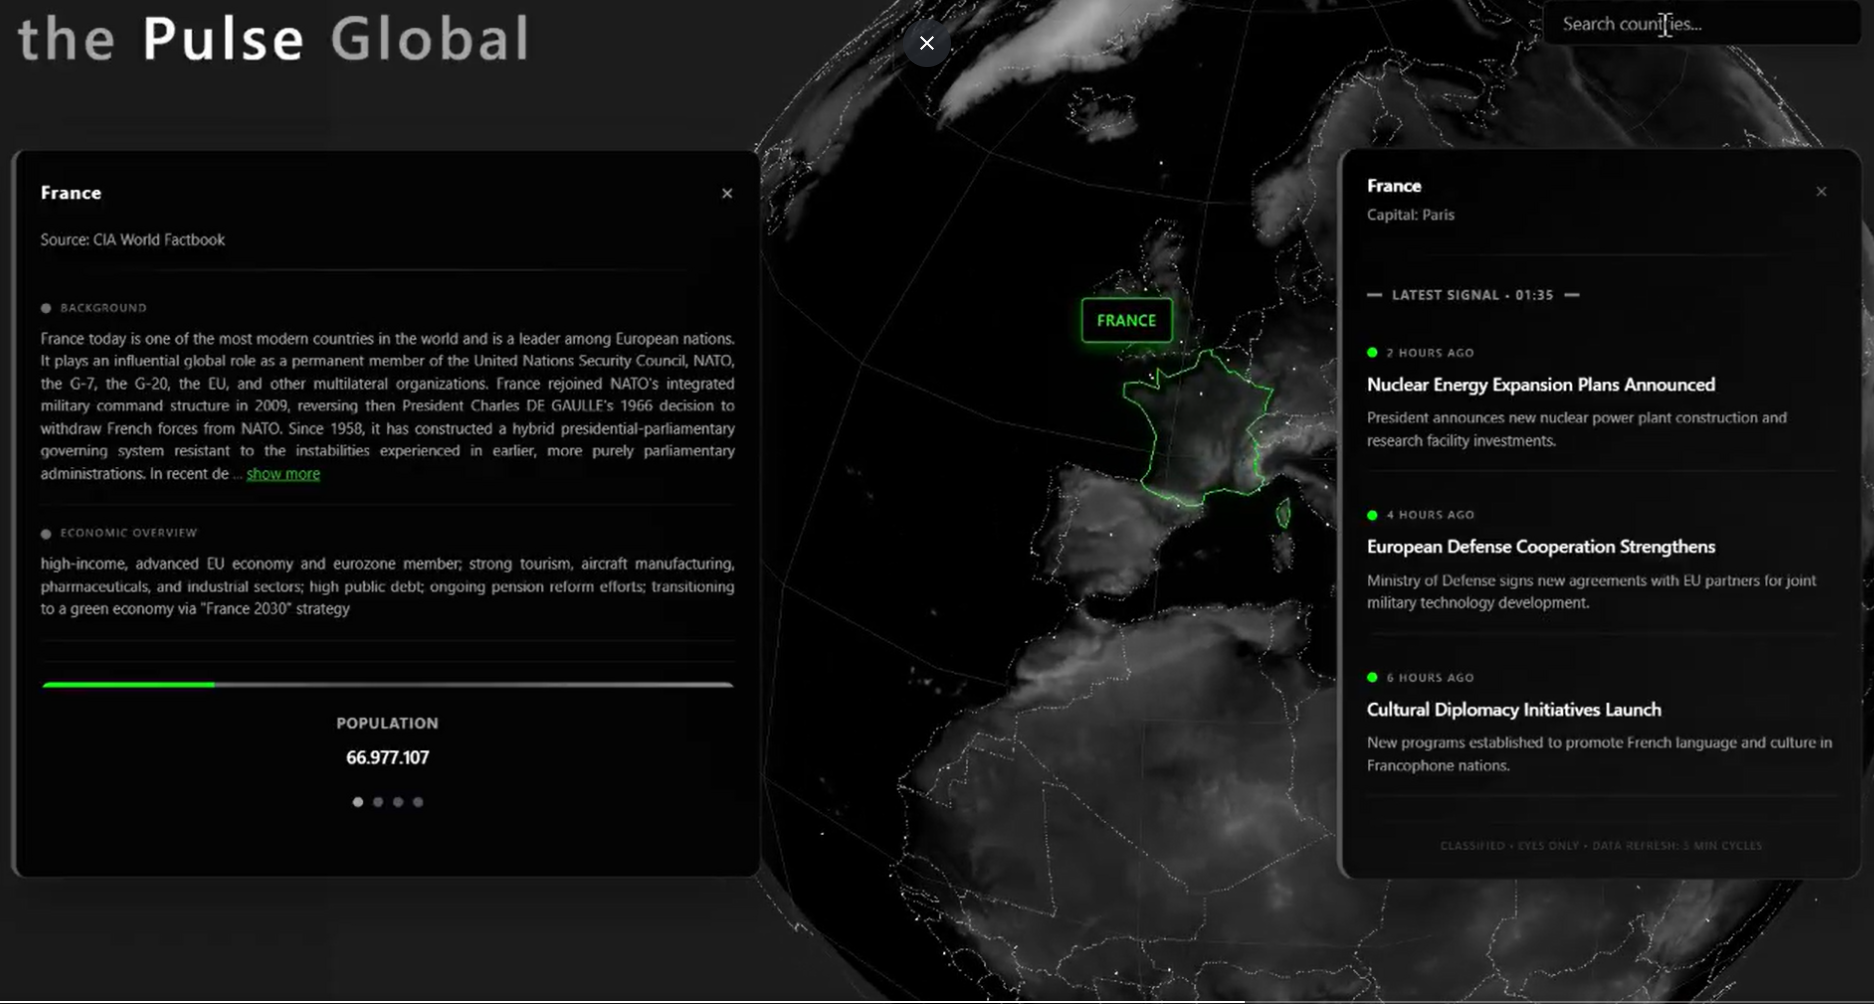
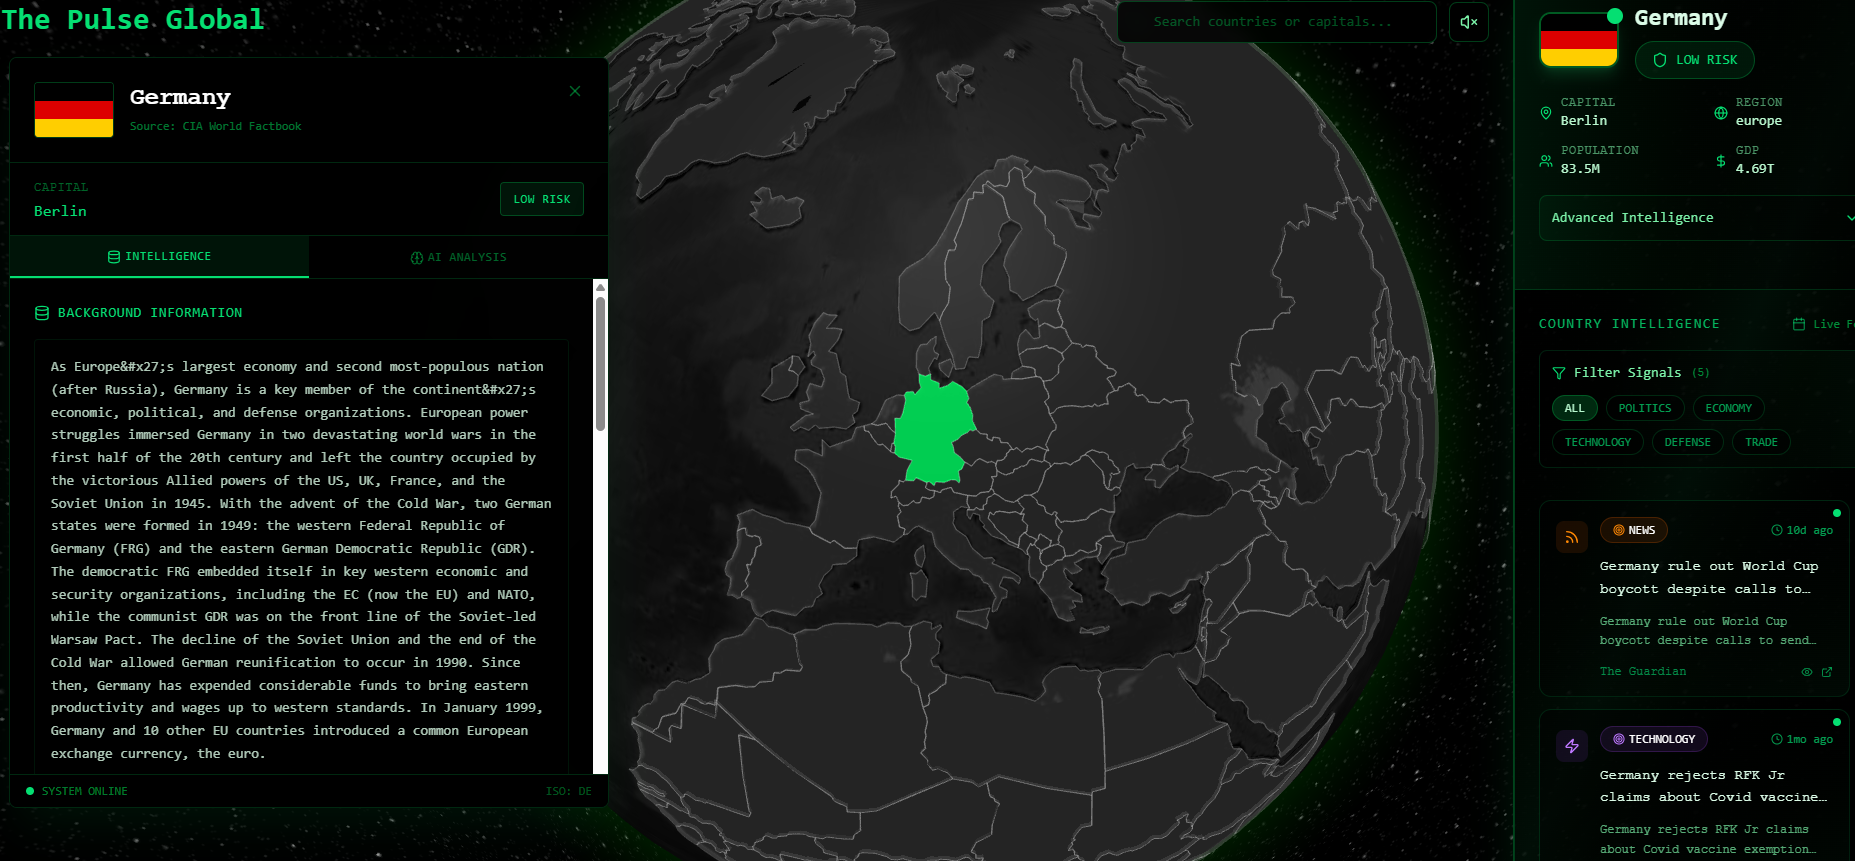
new project

diff --git a/src/components/Contact.jsx b/src/components/Contact.jsx
@@ -1,5 +1,5 @@
-import React from 'react';
-import { Box, Container, Typography, Grid, TextField, Button, Paper, IconButton, Stack, Chip } from '@mui/material';
+import React, { useRef, useState } from 'react';
+import { Box, Container, Typography, Grid, TextField, Button, Paper, IconButton, Stack, Snackbar, Alert, CircularProgress } from '@mui/material';
 import EmailIcon from '@mui/icons-material/Email';
 import LinkedInIcon from '@mui/icons-material/LinkedIn';
 import GitHubIcon from '@mui/icons-material/GitHub';
@@ -7,9 +7,37 @@ import WhatsAppIcon from '@mui/icons-material/WhatsApp';
 import LocationOnIcon from '@mui/icons-material/LocationOn';
 import SendIcon from '@mui/icons-material/Send';
 import SmartToyIcon from '@mui/icons-material/SmartToy';
+import CheckCircleIcon from '@mui/icons-material/CheckCircle';
+import emailjs from '@emailjs/browser';
 import { motion } from 'framer-motion';
 
+// =====================================================
+// EmailJS Konfiguration:
+// 1. https://www.emailjs.com/ hesap oluşturun (ücretsiz)
+// 2. Email Service ekleyin (Gmail, Outlook vb.)
+// 3. Email Template oluşturun (Aşağıdaki değişkenler: from_name, from_email, message)
+// 4. Aşağıdaki değerleri kendi bilgilerinizle değiştirin:
+// =====================================================
+const EMAILJS_SERVICE_ID = 'service_xxxxxxx';   // EmailJS Service ID
+const EMAILJS_TEMPLATE_ID = 'template_xxxxxxx'; // EmailJS Template ID
+const EMAILJS_PUBLIC_KEY = 'xxxxxxxxxxxxxxx';    // EmailJS Public Key
+
+const inputStyles = {
+    '& .MuiOutlinedInput-root': {
+        color: 'white',
+        '& fieldset': { borderColor: 'rgba(255,255,255,0.2)' },
+        '&:hover fieldset': { borderColor: '#00d9ff' },
+        '&.Mui-focused fieldset': { borderColor: '#00d9ff' },
+    },
+    '& .MuiInputLabel-root': { color: 'rgba(255,255,255,0.5)' },
+    '& .MuiInputLabel-root.Mui-focused': { color: '#00d9ff' },
+};
+
 const Contact = () => {
+    const formRef = useRef(null);
+    const [loading, setLoading] = useState(false);
+    const [snackbar, setSnackbar] = useState({ open: false, message: '', severity: 'success' });
+
     const contactInfo = [
         { icon: <EmailIcon />, label: "Email", value: "gokhan.cakmak@web.de", link: "mailto:gokhan.cakmak@web.de" },
         { icon: <LocationOnIcon />, label: "Location", value: "Bonn", link: null },
@@ -20,6 +48,28 @@ const Contact = () => {
         { icon: <GitHubIcon />, url: "https://github.com/cakmakg", color: "#333" },
         { icon: <WhatsAppIcon />, url: "https://wa.me/491639734475", color: "#25d366" },
     ];
+
+    const handleSubmit = (e) => {
+        e.preventDefault();
+        setLoading(true);
+
+        emailjs.sendForm(
+            EMAILJS_SERVICE_ID,
+            EMAILJS_TEMPLATE_ID,
+            formRef.current,
+            EMAILJS_PUBLIC_KEY
+        )
+            .then(() => {
+                setSnackbar({ open: true, message: 'Nachricht erfolgreich gesendet! ✅', severity: 'success' });
+                formRef.current.reset();
+            })
+            .catch(() => {
+                setSnackbar({ open: true, message: 'Fehler beim Senden. Bitte versuchen Sie es erneut.', severity: 'error' });
+            })
+            .finally(() => {
+                setLoading(false);
+            });
+    };
 
     return (
         <Box id="contact" sx={{ py: 10, bgcolor: '#0f0f1a', position: 'relative', overflow: 'hidden' }}>
@@ -119,6 +169,7 @@ const Contact = () => {
                                             key={i}
                                             href={social.url}
                                             target="_blank"
+                                            aria-label={`Social link ${i}`}
                                             sx={{
                                                 color: 'rgba(255,255,255,0.6)',
                                                 border: '1px solid rgba(255,255,255,0.1)',
@@ -137,66 +188,53 @@ const Contact = () => {
 
                             {/* Contact Form */}
                             <Grid item xs={12} md={7}>
-                                <Box component="form" sx={{ display: 'flex', flexDirection: 'column', gap: 2 }}>
+                                <Box
+                                    component="form"
+                                    ref={formRef}
+                                    onSubmit={handleSubmit}
+                                    sx={{ display: 'flex', flexDirection: 'column', gap: 2 }}
+                                >
                                     <TextField
                                         fullWidth
                                         label="Name"
+                                        name="from_name"
+                                        required
                                         variant="outlined"
-                                        sx={{
-                                            '& .MuiOutlinedInput-root': {
-                                                color: 'white',
-                                                '& fieldset': { borderColor: 'rgba(255,255,255,0.2)' },
-                                                '&:hover fieldset': { borderColor: '#00d9ff' },
-                                                '&.Mui-focused fieldset': { borderColor: '#00d9ff' },
-                                            },
-                                            '& .MuiInputLabel-root': { color: 'rgba(255,255,255,0.5)' },
-                                            '& .MuiInputLabel-root.Mui-focused': { color: '#00d9ff' },
-                                        }}
+                                        sx={inputStyles}
                                     />
                                     <TextField
                                         fullWidth
                                         label="Email"
+                                        name="from_email"
                                         type="email"
+                                        required
                                         variant="outlined"
-                                        sx={{
-                                            '& .MuiOutlinedInput-root': {
-                                                color: 'white',
-                                                '& fieldset': { borderColor: 'rgba(255,255,255,0.2)' },
-                                                '&:hover fieldset': { borderColor: '#00d9ff' },
-                                                '&.Mui-focused fieldset': { borderColor: '#00d9ff' },
-                                            },
-                                            '& .MuiInputLabel-root': { color: 'rgba(255,255,255,0.5)' },
-                                            '& .MuiInputLabel-root.Mui-focused': { color: '#00d9ff' },
-                                        }}
+                                        sx={inputStyles}
                                     />
                                     <TextField
                                         fullWidth
                                         label="Nachricht"
+                                        name="message"
                                         multiline
                                         rows={4}
+                                        required
                                         variant="outlined"
-                                        sx={{
-                                            '& .MuiOutlinedInput-root': {
-                                                color: 'white',
-                                                '& fieldset': { borderColor: 'rgba(255,255,255,0.2)' },
-                                                '&:hover fieldset': { borderColor: '#00d9ff' },
-                                                '&.Mui-focused fieldset': { borderColor: '#00d9ff' },
-                                            },
-                                            '& .MuiInputLabel-root': { color: 'rgba(255,255,255,0.5)' },
-                                            '& .MuiInputLabel-root.Mui-focused': { color: '#00d9ff' },
-                                        }}
+                                        sx={inputStyles}
                                     />
                                     <Button
+                                        type="submit"
                                         variant="contained"
                                         size="large"
-                                        endIcon={<SendIcon />}
+                                        disabled={loading}
+                                        endIcon={loading ? <CircularProgress size={20} color="inherit" /> : <SendIcon />}
                                         sx={{
                                             mt: 1,
                                             bgcolor: '#a855f7',
-                                            '&:hover': { bgcolor: '#9333ea' }
+                                            '&:hover': { bgcolor: '#9333ea' },
+                                            '&.Mui-disabled': { bgcolor: 'rgba(168, 85, 247, 0.5)', color: 'rgba(255,255,255,0.5)' }
                                         }}
                                     >
-                                        Nachricht senden
+                                        {loading ? 'Wird gesendet...' : 'Nachricht senden'}
                                     </Button>
                                 </Box>
                             </Grid>
@@ -204,6 +242,22 @@ const Contact = () => {
                     </Paper>
                 </motion.div>
             </Container>
+
+            {/* Success/Error Snackbar */}
+            <Snackbar
+                open={snackbar.open}
+                autoHideDuration={5000}
+                onClose={() => setSnackbar({ ...snackbar, open: false })}
+                anchorOrigin={{ vertical: 'bottom', horizontal: 'center' }}
+            >
+                <Alert
+                    onClose={() => setSnackbar({ ...snackbar, open: false })}
+                    severity={snackbar.severity}
+                    variant="filled"
+                >
+                    {snackbar.message}
+                </Alert>
+            </Snackbar>
         </Box>
     );
 };

diff --git a/src/components/Projects.jsx b/src/components/Projects.jsx
@@ -19,27 +19,27 @@ const projects = [
     },
     {
         title: "WC Finder",
-        description: "Backend service for managing personnel data.",
+        description: "Öffentliche Toiletten in der Nähe finden.",
         image: "/wcfinder.png",
         link: "https://wc-finder-wheat.vercel.app/",
         github: "https://github.com/cakmakg/WCFinder",
-        tags: ["Node.js", "Express"],
-        category: "backend",
+        tags: ["React", "Maps API", "Node.js"],
+        category: "fullstack",
         isAI: false
     },
     {
         title: "TravelSync",
-        description: "Task management with authentication.",
+        description: "B2B-Plattform für Reisebüros und Hotels.",
         image: "/travelsync.png",
         link: "https://travelsync-backend.vercel.app/login",
         github: "https://github.com/cakmakg/travelsync-backend",
-        tags: ["React", "Node.js"],
+        tags: ["React", "Node.js", "MongoDB"],
         category: "fullstack",
         isAI: false
     },
     {
         title: "Stock App",
-        description: "Inventory tracking system.",
+        description: "Lagerbestandsverwaltung mit Dashboard.",
         image: "/projects3.jpg",
         link: "https://fs-stock-app-1.vercel.app/",
         github: "https://github.com/cakmakg",
@@ -49,21 +49,31 @@ const projects = [
     },
     {
         title: "Travel Agency",
-        description: "E-commerce cart functionality.",
+        description: "Reisebüro-Website mit Buchungsfunktion.",
         image: "/travelagenvy.png",
         link: "https://travel-agency-eight-gamma.vercel.app/",
         github: "https://github.com/cakmakg/TravelAgency",
-        tags: ["React", "Context"],
+        tags: ["React", "Tailwind"],
         category: "frontend",
         isAI: false
     },
     {
         title: "Event Platform",
-        description: "Event management platform.",
+        description: "Veranstaltungsplattform mit Nutzerregistrierung.",
         image: "/eventapp.png",
         link: "https://zusammenfun.onrender.com/",
         github: "https://github.com/cakmakg",
         tags: ["MERN Stack"],
+        category: "fullstack",
+        isAI: false
+    },
+    {
+        title: "The Pulse Global",
+        description: "OSINT platform.",
+        image: "/NEWOSINT.png",
+        link: "https://newosint.vercel.app/",
+        github: "https://github.com/cakmakg/NEWOSINT",
+        tags: ["AI"],
         category: "fullstack",
         isAI: false
     }
